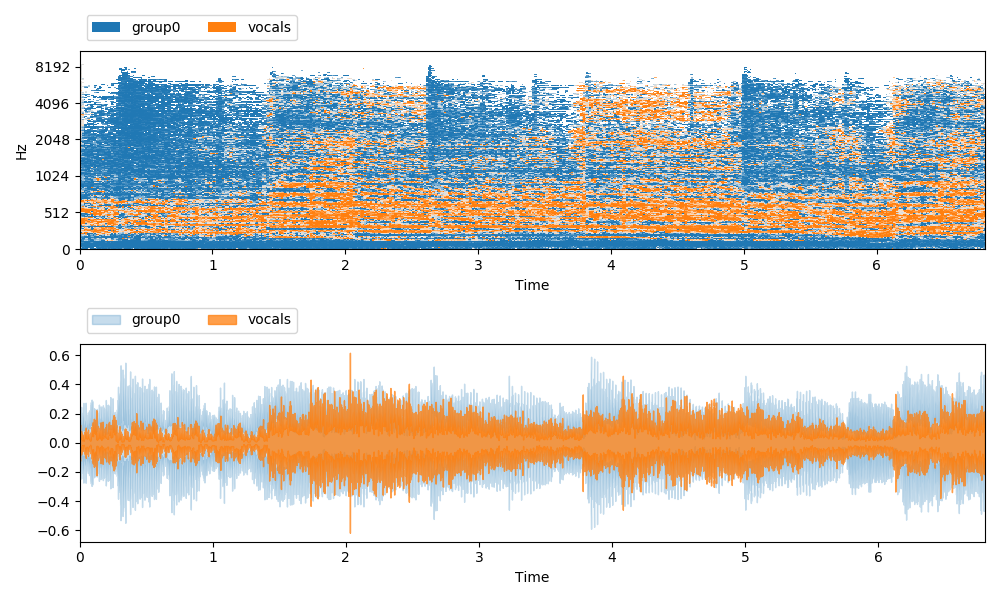
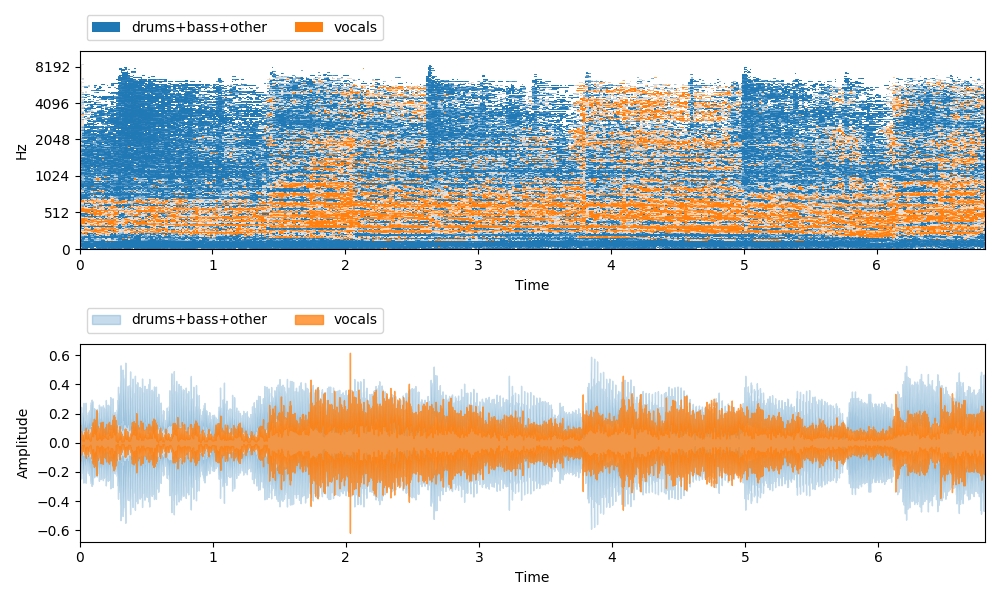
fixing up stuff

Changed region(s): [[0.155, 0.51, 0.372, 0.57], [0.155, 0.03, 0.372, 0.06], [0.0, 0.69, 0.031, 0.81]]

diff --git a/nussl/core/utils.py b/nussl/core/utils.py
@@ -425,12 +425,14 @@ def visualize_waveform(audio_signal, ch=0, do_mono=False, x_axis='time', **kwarg
         kwargs: Additional keyword arguments to librosa.display.waveplot.
     """
     import librosa.display
+    import matplotlib.pyplot as plt
 
     if do_mono:
         audio_signal = audio_signal.to_mono(overwrite=False)
     
     data = np.asfortranarray(audio_signal.audio_data[ch])
     librosa.display.waveplot(data, sr=audio_signal.sample_rate, x_axis=x_axis, **kwargs)
+    plt.ylabel('Amplitude')
 
 def visualize_sources_as_waveform(audio_signals, ch=0, do_mono=False, x_axis='time', 
                                   colors=None, alphas=None, show_legend=True, **kwargs):
@@ -566,7 +568,8 @@ def visualize_sources_as_masks(audio_signals, ch=0, do_mono=False, x_axis='time'
             'custom', ['white', color])
         image = cmap(mask)
         image[:, :, -1] = mask ** alpha_amount
-        plt.imshow(image, origin='lower', aspect='auto', extent=extent)
+        plt.imshow(image, origin='lower', aspect='auto', 
+            interpolation='none', extent=extent)
 
         legend_elements.append(
             matplotlib.patches.Patch(facecolor=color, label=key))

diff --git a/nussl/datasets/transforms.py b/nussl/datasets/transforms.py
@@ -34,7 +34,8 @@ class SumSources(object):
     a source belongs to a group, it is popped from the ``data[self.source_key]`` and
     summed with the other sources in the group. If there is a corresponding 
     group_name in group_names, it is named that in ``data[self.source_key]``. If
-    group_names are not given, then the names are ``['group0', 'group1', ...]``.
+    group_names are not given, then the names are constructed using the keys
+    in each group (e.g. `drums+bass+other`).
 
     If using Scaper datasets, then there may be multiple sources with the same
     label but different counts. The Scaper dataset hook organizes the source
@@ -94,7 +95,7 @@ class SumSources(object):
         self.groupings = groupings
         self.source_key = source_key
         if group_names is None:
-            group_names = [f"group{i}" for i in range(len(groupings))]
+            group_names = ['+'.join(groupings[i]) for i in range(len(groupings))]
         self.group_names = group_names
 
     def __call__(self, data):

diff --git a/tests/separation/test_primitive.py b/tests/separation/test_primitive.py
@@ -43,7 +43,7 @@ def test_ft2d(
 ):
     mix, sources = music_mix_and_sources
     vox = sources['vocals']
-    acc = sources['group0']
+    acc = sources['drums+bass+other']
 
     pytest.raises(SeparationException, primitive.FT2D, mix, 
         filter_approach='none of the above')
@@ -100,7 +100,7 @@ def test_repet(
 ):
     mix, sources = music_mix_and_sources
     vox = sources['vocals']
-    acc = sources['group0']
+    acc = sources['drums+bass+other']
 
     pytest.raises(
         SeparationException, primitive.Repet, mix, min_period=.8, 
@@ -179,7 +179,7 @@ def test_repet_sim(
     mix, sources = music_mix_and_sources
     mix = copy.deepcopy(mix)
     vox = copy.deepcopy(sources['vocals'])
-    acc = copy.deepcopy(sources['group0'])
+    acc = copy.deepcopy(sources['drums+bass+other'])
 
     config = [
         ({}, 'defaults'),

diff --git a/tests/datasets/test_transforms.py b/tests/datasets/test_transforms.py
@@ -129,12 +129,12 @@ def test_transform_sum_sources(musdb_tracks):
         _data = tfm(_data)
         for g in group:
             assert g not in _data['sources']
-        assert 'group0' in _data['sources']
+        assert '+'.join(group) in _data['sources']
 
         summed_sources = sum([sources[k] for k in group])
 
         assert np.allclose(
-            _data['sources']['group0'].audio_data,
+            _data['sources']['+'.join(group)].audio_data,
             summed_sources.audio_data
         )
 

diff --git a/tests/separation/test_composite.py b/tests/separation/test_composite.py
@@ -21,7 +21,7 @@ def test_ensemble_clustering(
     mix, sources = music_mix_and_sources
     mix = copy.deepcopy(mix)
     vox = copy.deepcopy(sources['vocals'])
-    acc = copy.deepcopy(sources['group0'])
+    acc = copy.deepcopy(sources['drums+bass+other'])
 
     separators = [
         primitive.FT2D(mix),

diff --git a/tests/separation/test_factorization.py b/tests/separation/test_factorization.py
@@ -17,7 +17,7 @@ def test_rpca(
     mix, sources = music_mix_and_sources
     mix = copy.deepcopy(mix)
     vox = copy.deepcopy(sources['vocals'])
-    acc = copy.deepcopy(sources['group0'])
+    acc = copy.deepcopy(sources['drums+bass+other'])
 
     config = [
         ({}, 'defaults'),
